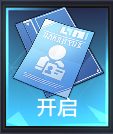
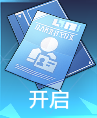
fix(cw): 秘密典籍模板重制自金卡真值帧+书册卡内缩——治 shape 守卫判盲与渲染不同源双根因
- 秘密典籍.png:113x134 蓝底书册(渲染不同源)→ 93x114 金票券卡内窗(真值帧 slot7 裁剪);slot7 命中 1.000/slot1 0.978,负样本最高 0.630(互斥兜住)
- 书册卡_未知.png:中心内缩 97x118(同源),消除金卡 slot1 贴 0.75 阈值线风险(0.75→0.61)
- 修复效果:真值帧 slot7 金卡由箱模板 0.68 误接 → find_tomes 命中,策略路径 OpenBox → OpenTome(星徽四选一接管恢复);银箱 4 格与全仓 48 帧零回退
- cw_identity_obs.py:三个 find_* 的 shape 守卫静默跳过 → 记数+debug 日志(_note_shape_skip),判定语义零变更;秘密典籍注释与实机渲染对齐
- 模板尺寸约定入注释:必须小于最小槽裁片 111x131,否则守卫判盲

diff --git a/src/sr_od/application/currency_war/cw_identity_obs.py b/src/sr_od/application/currency_war/cw_identity_obs.py
@@ -942,9 +942,12 @@ def read_bench_chars(ctx: SrContext, screen: MatLike, templates: AvatarTemplates
 _SUPPLY_BOX_TM_THR: float = 0.6
 _supply_box_gray: MatLike | None = None
 _supply_box_loaded: bool = False
-# 秘密典籍(2026-08-16 M45 建档,用户指导):投资策略「秘密典籍」给的道具,红金典籍 icon+
-# 「开启」,占备战席 1 槽(类补给箱);点两次(选中→开启)→ 星徽四选一(loop 0i 接管)。
-# 分离度实测:典籍 vs 补给箱互 TM 0.481(阈值 0.6 下互不误认);同读法同槽位模型。
+# 秘密典籍(2026-08-16 M45 建档,用户指导):投资策略「秘密典籍」给的道具,
+# 占备战席 1 槽(类补给箱);点两次(选中→开启)→ 星徽四选一(loop 0i 接管)。
+# 实机渲染 = 金色票券卡(票面星纹 + 底部「开启」钮),模板即自该实机真值帧
+# (sr-od-test/screens/货币战争-备战/shop_closed_lowhp.webp slot7)内窗裁剪;
+# 模板必须小于全部槽裁片(最小 111x131),否则 shape 守卫会跳过该槽(判盲)。
+# 互斥判定:典籍命中需典籍分 > 箱分(同槽双模板对拍,防箱被认成典籍)。
 _tome_gray: MatLike | None = None
 _tome_loaded: bool = False
 # 书册卡(r100k 建档,2026-08-20):青蓝卡片+白色书册/文件夹 icon+底部「开启」,
@@ -955,6 +958,23 @@ _tome_loaded: bool = False
 _bookcard_gray: MatLike | None = None
 _bookcard_loaded: bool = False
 _BOOKCARD_TM_THR: float = 0.75   # 自身帧 0.975+,留选中态余量;vs 典籍 0.505 分离充足
+
+# shape 守卫观测器:槽裁片小于模板尺寸时 matchTemplate 无法进行,守卫跳过该槽。
+# 历史:113x134 整槽尺寸模板在 111x131 的小槽上被守卫静默跳过 = 该槽对此物品判盲
+# (证据链与修复=模板收进槽内,见 assets/template/currency_war/supply/ 模板尺寸约定)。
+# 这里只做记数+日志(可见性),不改跳过语义——静默跳过曾让漏检无从排查。
+_shape_guard_skip_count: int = 0
+
+
+def _note_shape_skip(where: str, idx: int, crop_h: int, crop_w: int,
+                     tm_h: int, tm_w: int) -> None:
+    """记一次 shape 守卫跳过(debug 日志;判盲可见,不影响任何判定结果)。"""
+    global _shape_guard_skip_count
+    _shape_guard_skip_count += 1
+    from one_dragon.utils import log_utils
+    log_utils.log.debug(
+        f'[cw!][{where}] 槽{idx} 裁片{crop_h}x{crop_w}小于模板{tm_h}x{tm_w},'
+        f'跳过匹配(累计{_shape_guard_skip_count}次;模板尺寸应小于全部槽裁片)')
 
 
 def _get_tome_gray() -> MatLike | None:
@@ -972,7 +992,11 @@ def _get_tome_gray() -> MatLike | None:
 
 
 def _get_bookcard_gray() -> MatLike | None:
-    """加载书册卡模板灰度图(r100k;``assets/template/currency_war/supply/书册卡_未知.png``)。"""
+    """加载书册卡模板灰度图(r100k;``assets/template/currency_war/supply/书册卡_未知.png``)。
+
+    模板 = 建档帧 slot1 真值裁片的中心内窗(97x118,< 全部槽裁片,防 shape 守卫判盲;
+    渲染同源)。无实机重放帧,阈值 0.75 的自身命中维持建档时实测(0.975+)背书。
+    """
     global _bookcard_gray, _bookcard_loaded
     if not _bookcard_loaded:
         _bookcard_loaded = True
@@ -995,6 +1019,8 @@ def find_bookcards(screen: MatLike, slots: list[tuple[int, Rect]]) -> list[tuple
     for idx, rect in slots:
         crop = gray[rect.y1:rect.y2, rect.x1:rect.x2]
         if crop.shape[0] < tm.shape[0] or crop.shape[1] < tm.shape[1]:
+            _note_shape_skip('find_bookcards', idx, crop.shape[0], crop.shape[1],
+                             tm.shape[0], tm.shape[1])
             continue
         r = cv2.matchTemplate(crop, tm, cv2.TM_CCOEFF_NORMED)
         if cv2.minMaxLoc(r)[1] >= _BOOKCARD_TM_THR:
@@ -1048,6 +1074,8 @@ def find_supply_boxes(screen: MatLike, slots: list[tuple[int, Rect]]) -> list[tu
         best = 0.0
         for tm in tms:
             if crop.shape[0] < tm.shape[0] or crop.shape[1] < tm.shape[1]:
+                _note_shape_skip('find_supply_boxes', idx, crop.shape[0], crop.shape[1],
+                                 tm.shape[0], tm.shape[1])
                 continue
             r = cv2.matchTemplate(crop, tm, cv2.TM_CCOEFF_NORMED)
             _, mx, _, _ = cv2.minMaxLoc(r)
@@ -1080,6 +1108,8 @@ def find_tomes(screen: MatLike, slots: list[tuple[int, Rect]]) -> list[tuple[int
     for idx, rect in slots:
         crop = gray[rect.y1:rect.y2, rect.x1:rect.x2]
         if crop.shape[0] < tm.shape[0] or crop.shape[1] < tm.shape[1]:
+            _note_shape_skip('find_tomes', idx, crop.shape[0], crop.shape[1],
+                             tm.shape[0], tm.shape[1])
             continue
         r = cv2.matchTemplate(crop, tm, cv2.TM_CCOEFF_NORMED)
         tome_score = cv2.minMaxLoc(r)[1]
